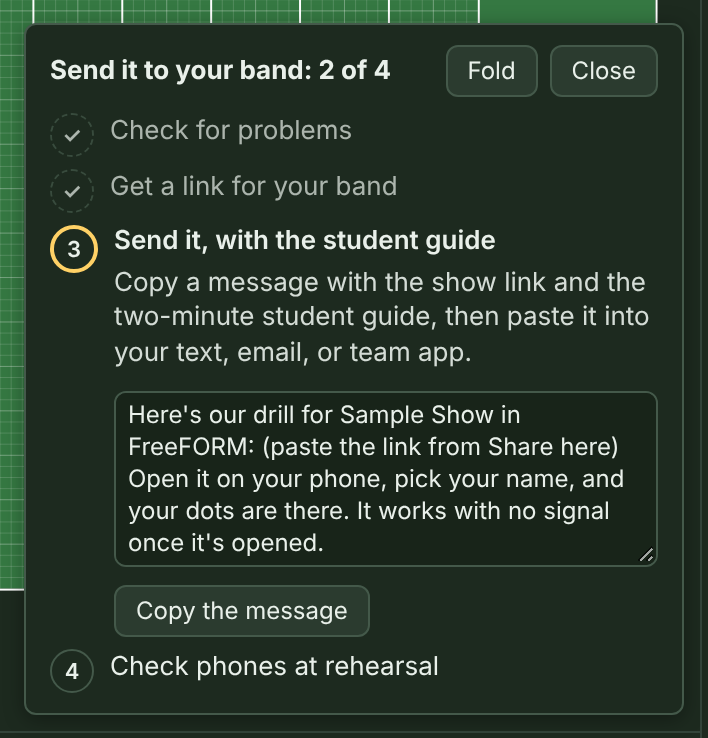
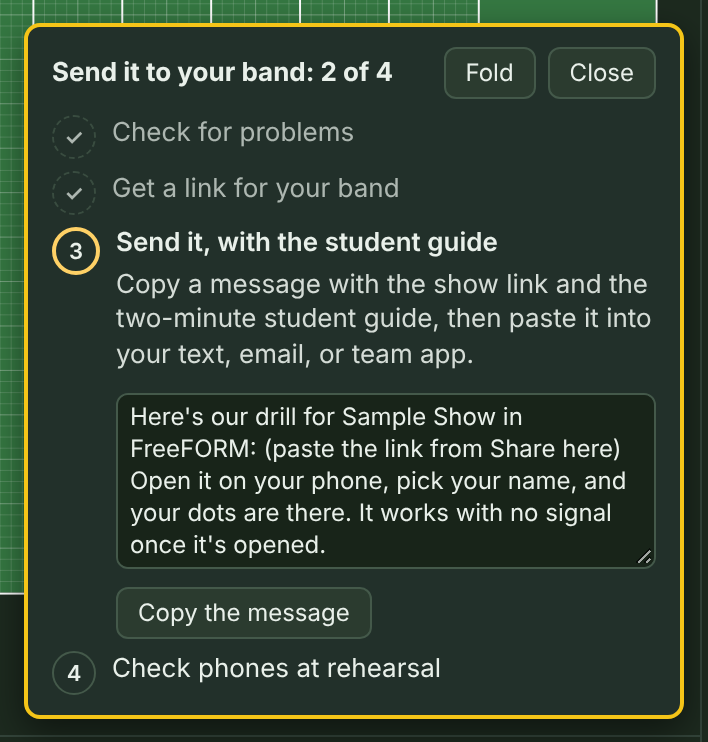
The checklist card stands out from the panels
A 2 px warning-yellow edge like the Start note, a slightly lighter panel
color than the page, and a deeper shadow (Jason).

Claude-Session: https://claude.ai/code/session_012ak5ZU6YMQLnq6c3SxmXJ2

diff --git a/app/index.html b/app/index.html
@@ -168,7 +168,7 @@
       .dot-row { width: 100%; display: flex; flex-direction: column; align-items: stretch; gap: 2px; text-align: left; padding: 10px 12px; font-size: 17px; line-height: 1.3; border: 2px solid var(--line-strong); }
       .dot-row[aria-current] { border-color: var(--gold); }
       .getting-started { position: absolute; right: 8px; bottom: 8px; width: 330px; max-width: calc(100% - 16px); box-sizing: border-box; padding: 10px 12px;
-        background: var(--bg); border: 1px solid var(--line-strong); border-radius: 6px; font-size: 13px; line-height: 1.35; box-shadow: 0 2px 10px rgba(0,0,0,0.35); }
+        background: var(--surface); border: 2px solid var(--warn); border-radius: 8px; font-size: 13px; line-height: 1.35; box-shadow: 0 6px 18px rgba(0,0,0,0.5); } /* yellow-edged like the Start note, so it stands out from the panels (Jason) */
       .getting-started button { font-size: 12px; }
       .getting-started.center { right: auto; bottom: auto; top: 50%; left: 50%; transform: translate(-50%, -50%); z-index: 5; width: min(520px, calc(100% - 32px));
         max-height: calc(100% - 16px); overflow-y: auto; padding: 14px 16px; border: 2px solid var(--warn); font-size: 14px; box-shadow: 0 6px 16px rgba(0,0,0,0.45); } /* a blank field: where you start */

diff --git a/DECISIONS.md b/DECISIONS.md
@@ -1599,3 +1599,8 @@ Each entry: timestamp, who decided, context, options considered, decision.
 - **Who:** Jason Tiller
 - **Decision:** **Send feedback**, **Support FreeFORM**, and **About FreeFORM Drill** in **Help** use the same green button style as **Print…**, **Share…**, and **Video…** (the `primary` class, so they follow the palette in light and dark mode).
 
+## 2026-11-11: The checklist card stands out
+- **Who:** Jason Tiller (the colors by Claude; Jason can veto)
+- **Context:** In the corner, the Getting started (and Send it to your band) card had the page's own background and a faint border, so it blended into the panels around it.
+- **Decision:** It gets the same 2 px warning-yellow edge as the **Start your show** note (dark brown in light mode), the panel color one step lighter than the page (not the buttons' color, so its buttons still stand out), and a deeper shadow. The yellow edge is a shape cue as well as a color one.
+
